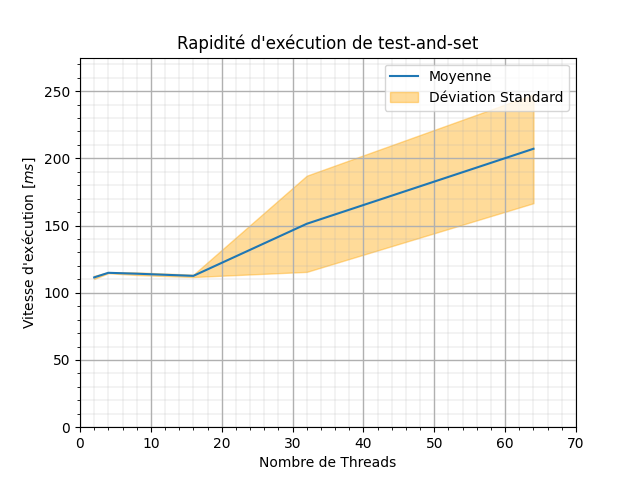
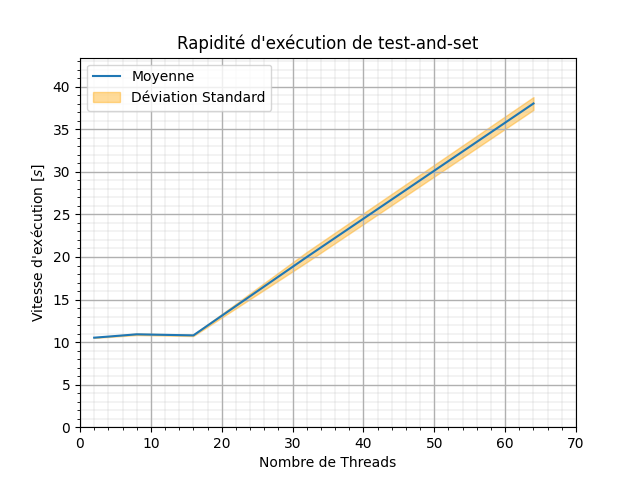
Update README and changed eval.sh for 1 thread part 2

diff --git a/Inginious/P1/src/prod-cons.c b/Inginious/P1/src/prod-cons.c
@@ -100,52 +100,48 @@ void* consumer(void* rien){
 
 
 
-
-
-
-
-
 int main(int argc, char *argv[]){
-pthread_mutex_init(&mutex, NULL);
-sem_init(&empty, 0 , N); // buffer vide
-sem_init(&full, 0 , 0); // buffer vide
+    pthread_mutex_init(&mutex, NULL);
+    sem_init(&empty, 0 , N); // buffer vide
+    sem_init(&full, 0 , 0); // buffer vide
 
 
-int THREAD_NUM = (int)  atoi(argv[1]);
+    int THREAD_NUM = (int)  atoi(argv[1]);
 
-pthread_t thread[THREAD_NUM];
-
-
+    pthread_t thread[THREAD_NUM];
 
 
-    //initialisation: half producer, half consumer
-    for(int i = 0; i<THREAD_NUM; i++){
 
-        if(i % 2 == 0){
-            int err = pthread_create(&thread[i], NULL, &producer, NULL);
-            if(err != 0){printf("error creating producer\n");}
+
+        //initialisation: half producer, half consumer
+        for(int i = 0; i<THREAD_NUM; i++){
+
+            if(i % 2 == 0){
+                int err = pthread_create(&thread[i], NULL, &producer, NULL);
+                if(err != 0){printf("error creating producer\n");}
+            }
+
+            else{
+                int err = pthread_create(&thread[i], NULL, &consumer, NULL);
+                if(err != 0){printf("error creating consumer\n");}
+            }
+
         }
 
-        else{
-            int err = pthread_create(&thread[i], NULL, &consumer, NULL);
-            if(err != 0){printf("error creating consumer\n");}
+
+        //joins each thread
+        for(int i = 0; i<THREAD_NUM; i++){
+            int errjoin = pthread_join(thread[i], NULL);
+            if(errjoin != 0){printf("error joining thread\n");}
         }
 
-    }
 
+        //printf("Produced: %d, Consumed: %d\n", item_produced, item_consumed);
+        
 
-    //joins each thread
-    for(int i = 0; i<THREAD_NUM; i++){
-        int errjoin = pthread_join(thread[i], NULL);
-        if(errjoin != 0){printf("error joining thread\n");}
-    }
-
-
-    //printf("Produced: %d, Consumed: %d\n", item_produced, item_consumed);
-    
-
-//destroys semaphore and mutex at the end:
-sem_destroy(&empty);
-sem_destroy(&full);
-pthread_mutex_destroy(&mutex);
-return 0;}
+    //destroys semaphore and mutex at the end:
+    sem_destroy(&empty);
+    sem_destroy(&full);
+    pthread_mutex_destroy(&mutex);
+    return 0;
+}

diff --git a/Inginious/P1/src/philosopher.c b/Inginious/P1/src/philosopher.c
@@ -82,7 +82,9 @@ int main(int argc, char** argv){
         printf("Please provide the amount of philosopher you want\n");
         return EXIT_FAILURE;
     }
+
     N = (int)  atoi(argv[1]);
     philosopher((int)  atoi(argv[1]));
+    
     return EXIT_SUCCESS;
 }

diff --git a/Inginious/P1/src/test-and-set.c b/Inginious/P1/src/test-and-set.c
@@ -32,7 +32,7 @@ void* myFunc(void* arg){
 
     for(int j = 0; j < 6400/NTHREADS; j++){
         lock();
-        for(int a = 0; a <10000; a++){
+        for(int a = 0; a <1000000; a++){
             // DO
         }
         unlock();

diff --git a/Inginious/P1/README.md b/Inginious/P1/README.md
@@ -2,10 +2,12 @@
 
 - [Projet 1 - LINFO1252](#projet-1---linfo1252)
   - [Commandes Utiles](#commandes-utiles)
+  - [Organisation de l'Archive](#organisation-de-larchive)
   - [Description](#description)
     - [Partie 1](#partie-1)
   - [Résultat](#résultat)
     - [Partie 1](#partie-1-1)
+    - [Partie 2](#partie-2)
 
 
 
@@ -18,12 +20,22 @@
 | `make` `make all` |                            Compile tous les fichiers `.C` des différentes parties.                             |
 |    `make test`    | Lance le script bash [`eval.sh`](perf/eval.sh) qui relève les données sur la rapidité d'exécution et les plot. |
 |   `make clean`    |                                     Supprime tous les exécutables générés.                                     |
+|    `make plot`    |                                     Refais les graphes et les sauvegarde.                                      |
+
+## Organisation de l'Archive
+
+- [~/perf](perf): répertoire lié aux tests de performances.
+  - [/data](perf/data/): donnée des tests au format csv.
+  - [/plot](perf/plot/): où est sauvegardé les graphes
+- [~/src](src): répertoire avec le code source
 
 
 
 ## Description
 
 ### Partie 1
+
+#### Philosopher
 Nous avons implémenter le problème des philosophes dans ce [fichier](src/philosopher.c).
 
 ## Résultat
@@ -37,3 +49,10 @@ Pour réaliser les tests de
 ![philosopher](perf/plot/philosopher_plot.png)
 ![prod-cons](perf/plot/prod-cons_plot.png)
 ![reader-writer](perf/plot/reader-writer_plot.png)
+
+### Partie 2
+
+à noter ici que la boucle for était borné jusqu'à $1000000$ itérations à chaque fois.
+
+![test-and-set](perf/plot/test-and-set_plot.png)
+

diff --git a/Inginious/P1/note.md b/Inginious/P1/note.md
@@ -20,8 +20,8 @@
 
 ### 2
 
-- [ ] Mettre en œuvre un verrou par attente active utilisant l’opération atomique `xchg`, sur le modèle de l’algorithme test-and-set vu en cours  
-- [ ] Mesurez la performance du verrou test-and-set
+- [x] Mettre en œuvre un verrou par attente active utilisant l’opération atomique `xchg`, sur le modèle de l’algorithme test-and-set vu en cours  
+- [x] Mesurez la performance du verrou test-and-set
 - [ ] Implémentez l’algorithme test-and-test-and-set
 - [ ] Concevez une interface sémaphore sur la base de vos primitives d’attente active
 - [ ] Adaptez vos 3 programmes de la partie 1 pour utiliser vos primitives d’attente active
@@ -29,8 +29,9 @@
 
 ## Graph 
 
-![philosopher](perf/philosopher_plot.png)
-![prod-cons](perf/prod-cons_plot.png)
-![reader-writer](perf/reader-writer_plot.png)
+![philosopher](perf/plot/philosopher_plot.png)
+![prod-cons](perf/plot/prod-cons_plot.png)
+![reader-writer](perf/plot/reader-writer_plot.png)
+![test-and-set](perf/plot/test-and-set_plot.png)
 
 
